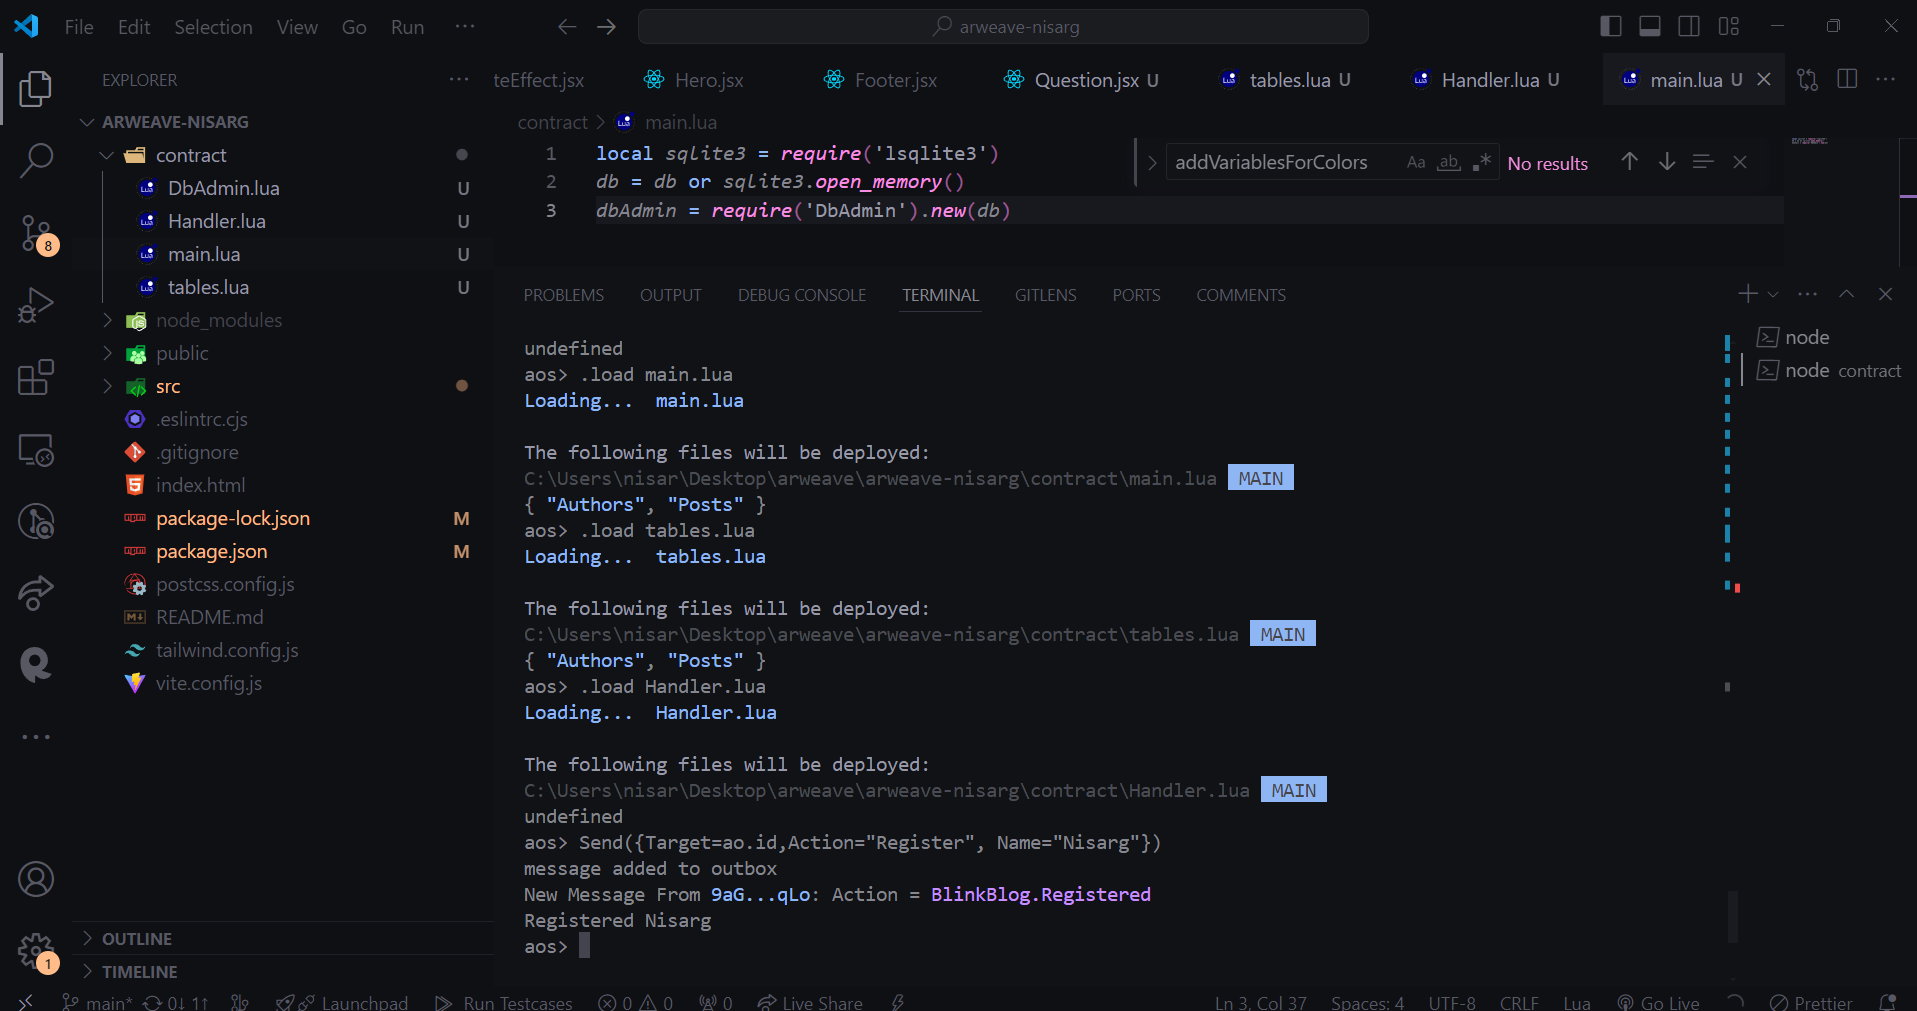
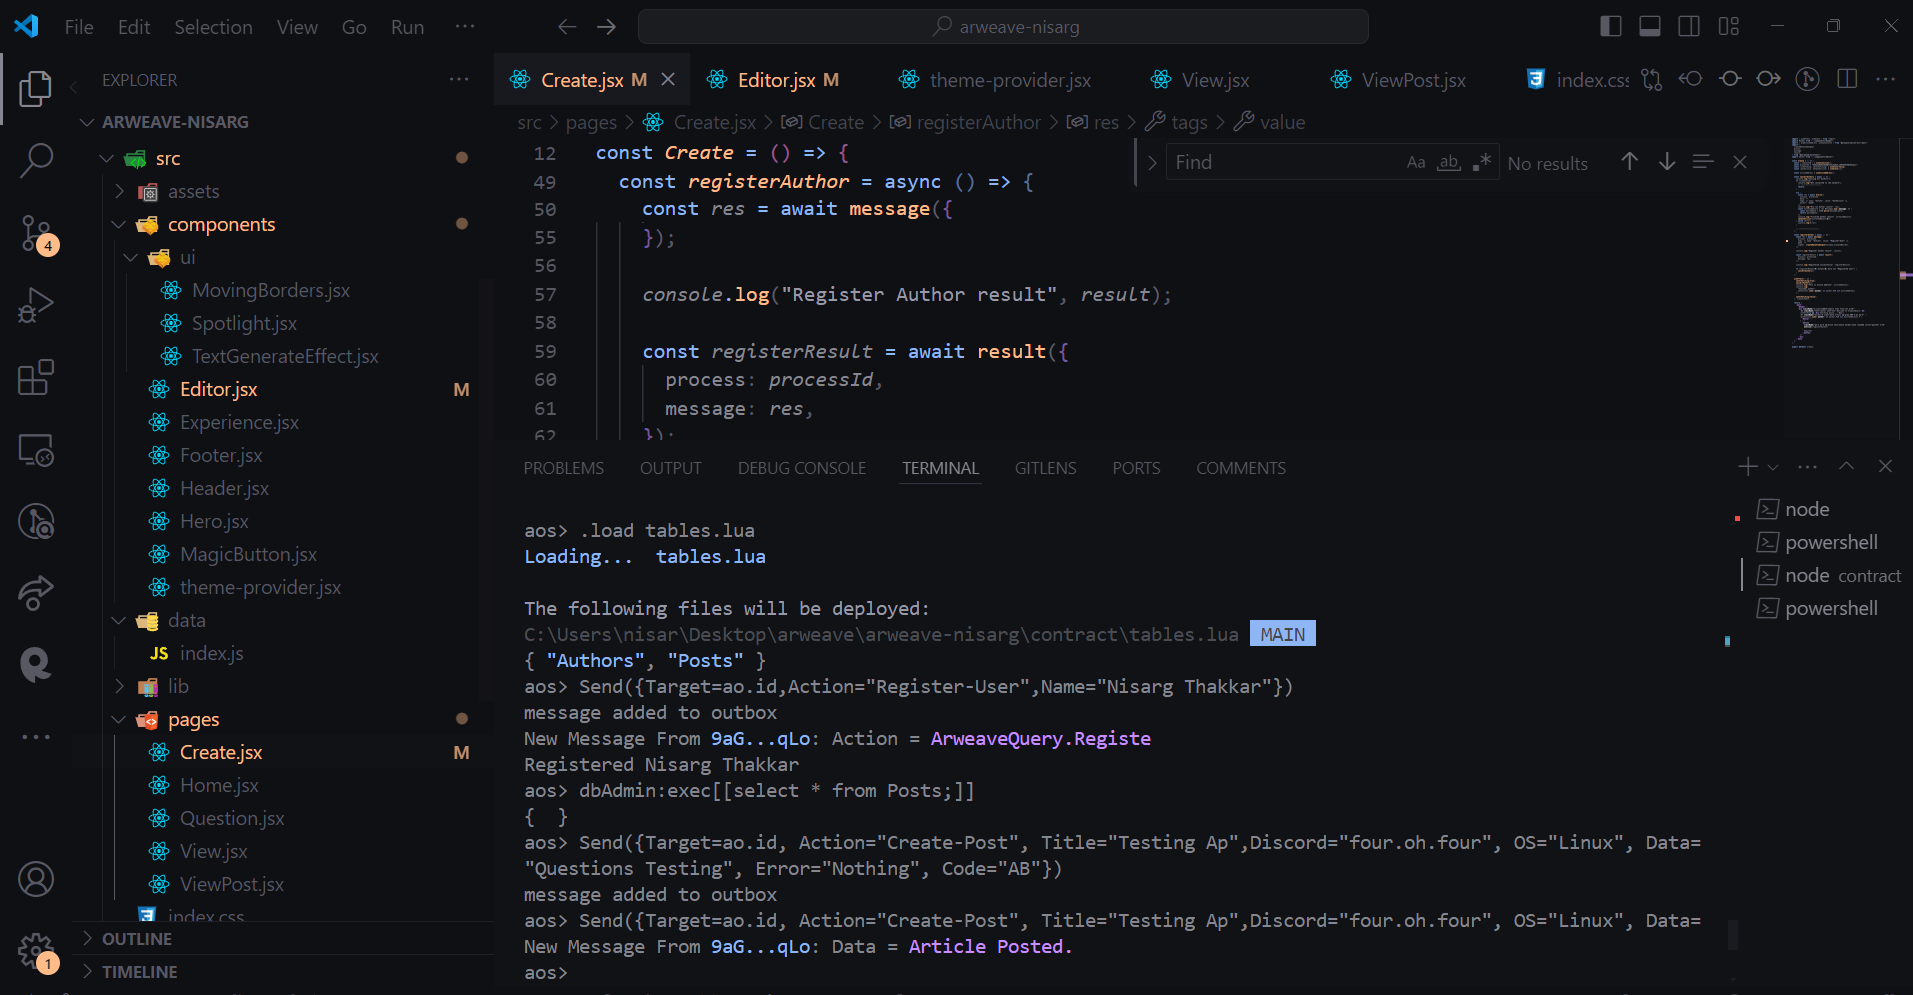
:tada: Final Updates

diff --git a/src/pages/Question.jsx b/src/pages/Question.jsx
@@ -1,24 +1,63 @@
 import { ConnectButton, useConnection } from "@arweave-wallet-kit/react";
 import Header from "../components/Header";
 import { Link } from "react-router-dom";
+import { motion } from "framer-motion";
+
+const features = [
+  { tag: "24/7 Developer Assistance", description: "Get round-the-clock support from experienced Arweave developers." },
+  { tag: "Stay Informed with Community News", description: "Never miss an update with real-time news and insights from the Arweave community." },
+  { tag: "Comprehensive Arweave Solutions", description: "Find answers to all your Arweave-related questions." },
+  { tag: "Expert-Led Developer Insights", description: "Benefit from the knowledge and experience of top Arweave developers." }
+];
 
 const Question = () => {
   const { connected } = useConnection();
 
   return (
-    <main>
+    <main className="bg-gray-100 text-gray-900">
       <Header />
-      <div className="h-[calc(100vh-72px)] flex flex-col items-center justify-center">
-        <h2>Welcome to ArweaveQuery!</h2>
+      <div className="h-[calc(100vh-72px)] flex flex-col items-center justify-center space-y-6">
+        <motion.h2 
+          className="text-3xl font-bold text-center" 
+          initial={{ opacity: 0, y: -20 }} 
+          animate={{ opacity: 1, y: 0 }} 
+          transition={{ duration: 0.5 }}
+        >
+          Welcome to ArweaveQuery!
+        </motion.h2>
+
         {connected ? (
-          <button className="py-2 px-4 bg-black text-white border-none rounded cursor-pointer">
+          <motion.button 
+            className="py-2 px-4 bg-black text-white border-none rounded cursor-pointer shadow-lg" 
+            initial={{ opacity: 0, scale: 0.8 }} 
+            animate={{ opacity: 1, scale: 1 }} 
+            transition={{ duration: 0.5 }}
+          >
             <Link to="/view" className="text-white no-underline">
               View Posts
             </Link>
-          </button>
+          </motion.button>
         ) : (
           <ConnectButton />
         )}
+
+        <motion.div 
+          className="mt-8 grid grid-cols-1 md:grid-cols-2 lg:grid-cols-4 gap-4 max-w-screen-lg"
+          initial={{ opacity: 0 }} 
+          animate={{ opacity: 1 }} 
+          transition={{ delay: 0.3, duration: 0.5 }}
+        >
+          {features.map((feature, index) => (
+            <motion.div 
+              key={index} 
+              className="p-4 bg-white rounded shadow-md hover:shadow-lg transition-shadow duration-300"
+              whileHover={{ scale: 1.05 }}
+            >
+              <h3 className="font-semibold text-lg mb-2">{feature.tag}</h3>
+              <p className="text-sm text-gray-700">{feature.description}</p>
+            </motion.div>
+          ))}
+        </motion.div>
       </div>
     </main>
   );

diff --git a/src/components/Editor.jsx b/src/components/Editor.jsx
@@ -14,7 +14,7 @@ const Editor = () => {
   const [isPosting, setIsPosting] = useState(false);
 
   const { connected } = useConnection();
-  const processId = "5iK7nXtoUMWNCDtiOpwf75_ppw0v4LwusumyqiQdPq8";
+  const processId = "9aGueINd4SC0y0B7J15LbIUoV_nXMw4V57AQnSEiqLo";
 
   const createPost = async (e) => {
     e.preventDefault();
@@ -32,14 +32,14 @@ const Editor = () => {
         process: processId,
         tags: [
           { name: "Action", value: "Create-Post" },
-          { name: "Content-Type", value: "text/html" },
+          { name: "Content-Type", value: "text/html/json" },
           { name: "Title", value: title },
+          {name:"Discord", value: discord},
+          {name:"OS", value: os},
+          {name:"Error", value: errorContent},
+          {name:"Code", value: JSON.stringify(codeContent)}
         ],
-        Discord: discord,
-        OS: os,
-        Data: draftContent,
-        Error: errorContent,
-        Code: codeContent,
+        data: draftContent,
         signer: createDataItemSigner(window.arweaveWallet),
       });
 
@@ -116,7 +116,7 @@ const Editor = () => {
         className="mb-11"
       />
       <span className="text-lg mt-5">What have you tried or looked at? Or how can we reproduce the error?</span>
-      <span className="text-xs mb-5">Code snippets are preferred</span>
+      <span className="text-xs mb-5">Write Text only how to reproduce error?</span>
       <ReactQuill
         theme="snow"
         value={codeContent}

diff --git a/src/pages/Create.jsx b/src/pages/Create.jsx
@@ -49,7 +49,7 @@ const Create = () => {
   const registerAuthor = async () => {
     const res = await message({
       process: processId,
-      tags: [{ name: "Action", value: "Register" }],
+      tags: [{ name: "Action", value: "Register-User" }],
       data: "",
       signer: createDataItemSigner(window.arweaveWallet),
     });
